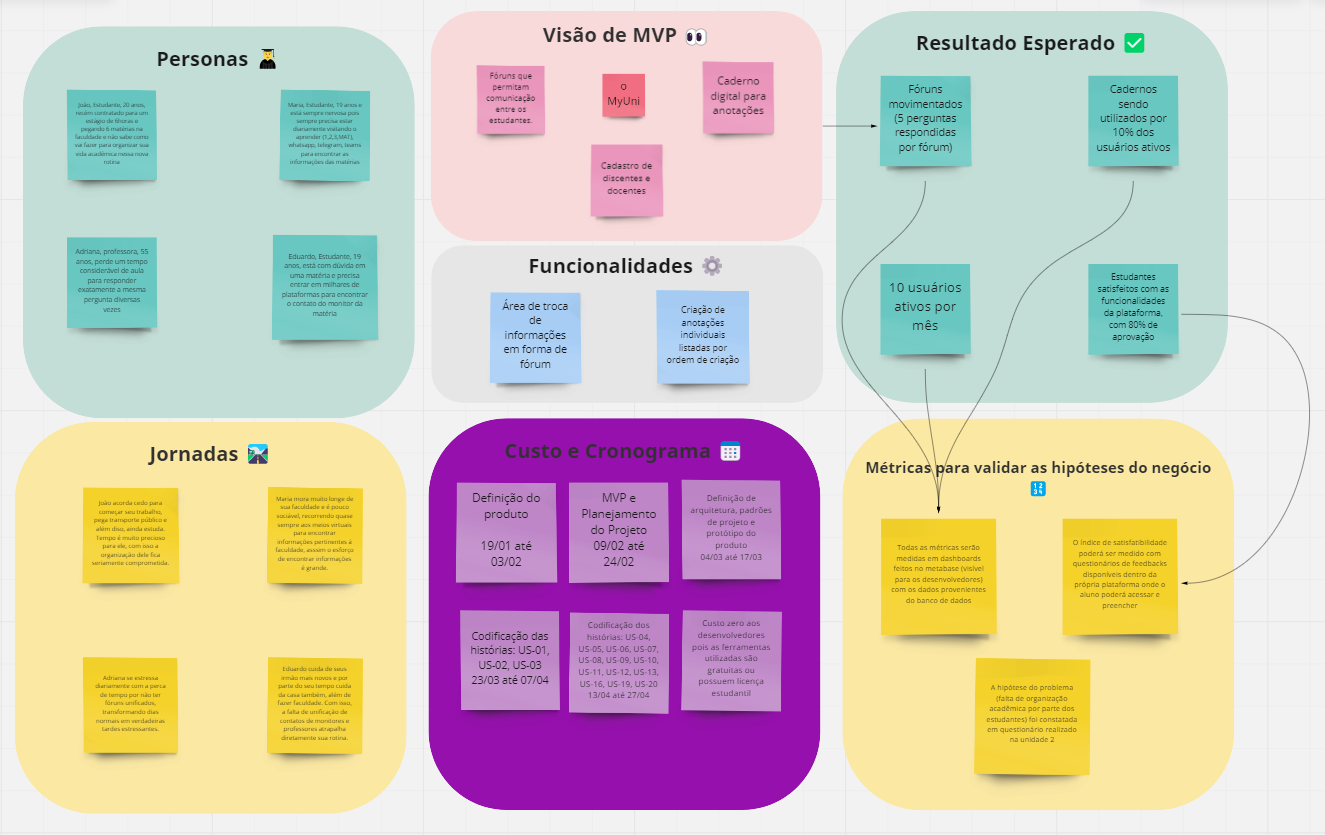
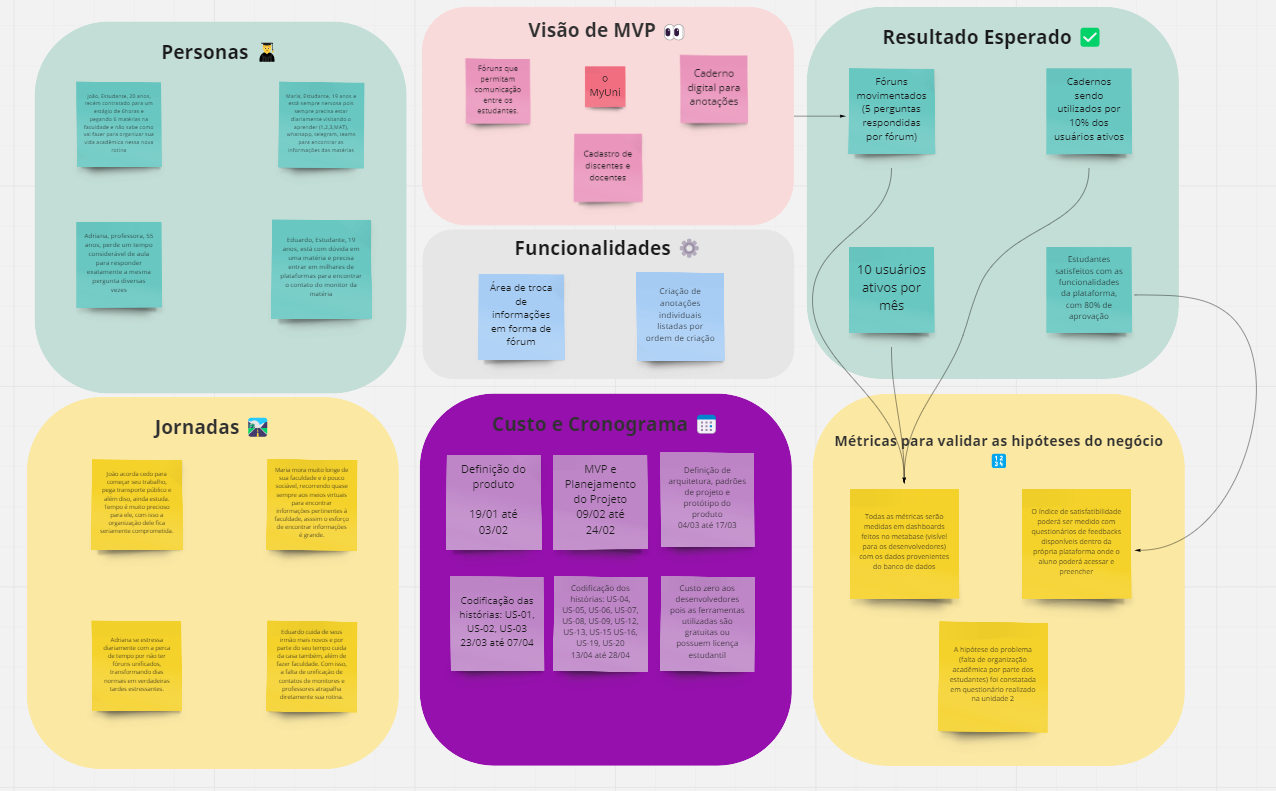
documentation update

diff --git a/docs/pages/overview.html b/docs/pages/overview.html
@@ -755,9 +755,9 @@
                     o software deverá satisfazer todos os requisitos não funcionais 
                     e apresentar no mínimo os seguintes requisitos funcionais: 
                     US-01, US-02, US-03, US-04, US-05, US-06, US-07, US-08, US-09,
-                    US-13, US-15, US-16, US-17, US-19.
+                    US-12, US-13, US-15, US-16, US-17, US-19.
                   </p>
-                  <img src="../images/diagrama_miro.png" class="img_mvp">
+                  <img src="../images/miro_mvp.png" class="img_mvp">
                   <p class="text-justify">Para melhor visualizar o canvas-MVP acessar o seguinte <a href="https://miro.com/app/board/uXjVOKONjxw=/?invite_link_id=450609391756" target="_blank">link</a></p>
                 </div>
               </div>
@@ -838,7 +838,7 @@
                       </tr>
                       <tr>
                         <td>Sprint 5</td>
-                        <td>Codificação dos histórias: US-04, US-05, US-06, US-07, US-08, US-09, US-13, US-15, US-16, US17, US-19</td>
+                        <td>Codificação dos histórias: US-04, US-05, US-06, US-07, US-08, US-09, US-12, US-13, US-15, US-16, US17, US-19</td>
                         <td>13/04/22</td>
                         <td>27/04/2022</td>
                       </tr>
@@ -1196,6 +1196,7 @@
                     <li>US-06: O usuário deve ser capaz de alterar qualquer anotação feita nos cadernos digitais.</li>                    <li>US-07: O usuário deve ser capaz de excluir qualquer anotação feita nos cadernos digitais.</li>
                     <li>US-08: O usuário deve ser capaz de cadastrar uma pergunta no fórum.</li>
                     <li>US-09: O usuário deve ser capaz de excluir qualquer pergunta feita pelo mesmo no fórum.</li>
+                    <li>US-12: O usuário deve ser capaz de visualizar o número de resposta que cada pergunta do fórum obteve.</li>
                     <li>US-13: O usuário deve ser capaz de listar perguntas do fórum baseadas em disciplinas.</li>
                     <li>US-15: O usuário deve ser capaz de visualizar informações básicas (foto/nome) sobre o usuário que realizou a pergunta no fórum.</li>
                     <li>US-16: O usuário deve ser capaz de cadastrar um a descrição da pergunta a ser feita.</li>
